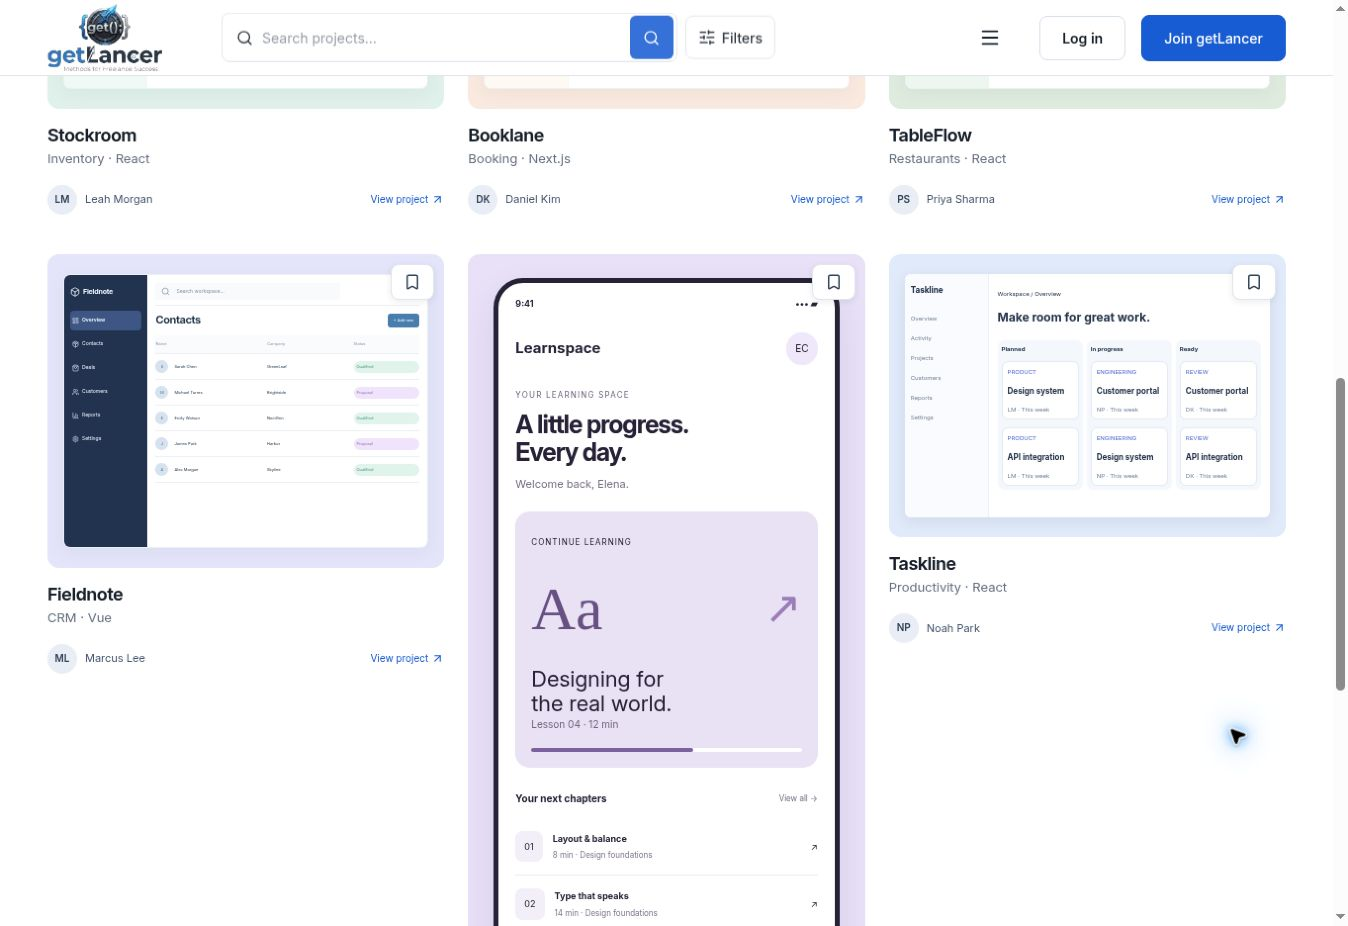
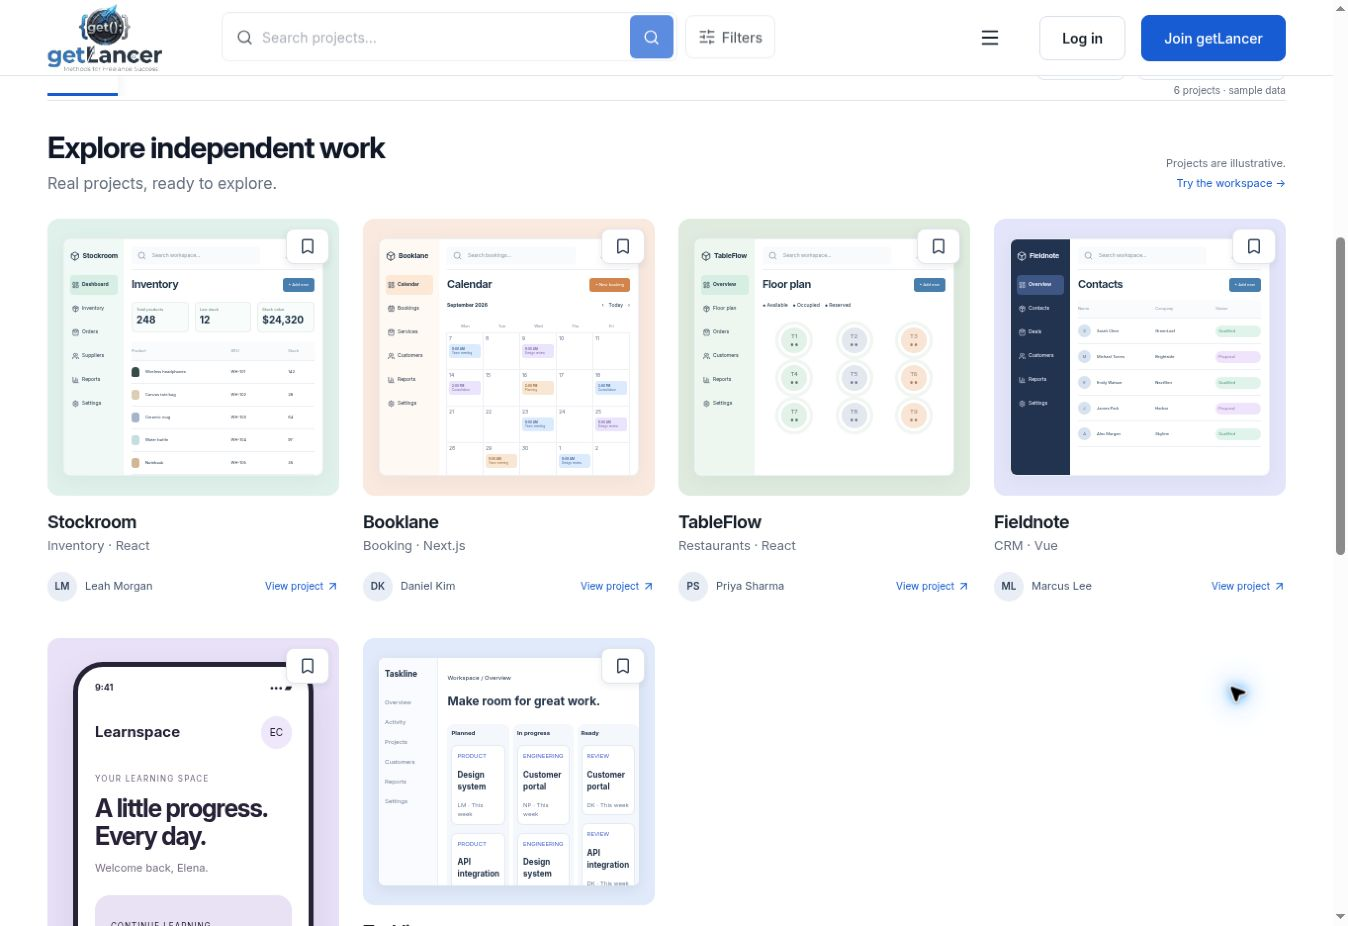
Use four masonry demo columns on desktop

diff --git a/app/globals.css b/app/globals.css
@@ -331,7 +331,7 @@ body{font-family:Inter,system-ui,-apple-system,'Segoe UI',sans-serif;background:
 .marketplace-hero .stack-card:hover,.marketplace-hero .stack-card:focus-within{z-index:1}.marketplace-hero .stack-card-1:hover,.marketplace-hero .stack-card-1:focus-within{z-index:2}
 
 /* Mixed-format masonry: media proportions drive height, never a fixed row. */
-.marketplace>.demo-gallery{display:block;columns:3;column-gap:24px;}
+.marketplace>.demo-gallery{display:block;columns:4;column-gap:24px;}
 .marketplace>.demo-gallery>.project{display:inline-block;vertical-align:top;width:100%;break-inside:avoid;margin:0 0 28px;padding:0;border:0;border-radius:0;background:transparent;box-shadow:none;transform:none;}
 .marketplace>.demo-gallery>.project:hover{transform:none;box-shadow:none;}
 .marketplace .demo-gallery .thumbnail{height:auto;min-height:0;aspect-ratio:auto;padding:20px 16px;display:block;overflow:hidden;}
@@ -347,7 +347,7 @@ body{font-family:Inter,system-ui,-apple-system,'Segoe UI',sans-serif;background:
 @media(max-width:1000px){.marketplace>.demo-gallery{columns:2;column-gap:20px}}
 @media(max-width:640px){.marketplace>.demo-gallery{columns:1}.marketplace .demo-gallery .tone-education{padding:24px 38px}}
 
-.marketplace>.demo-gallery[data-layout=masonry]{display:grid;columns:auto;grid-template-columns:repeat(3,minmax(0,1fr));grid-auto-rows:8px;column-gap:24px;row-gap:0;align-items:start;}
+.marketplace>.demo-gallery[data-layout=masonry]{display:grid;columns:auto;grid-template-columns:repeat(4,minmax(0,1fr));grid-auto-rows:8px;column-gap:24px;row-gap:0;align-items:start;}
 .marketplace>.demo-gallery[data-layout=masonry]>.project{margin:0;}
 @media(min-width:1600px){.marketplace>.demo-gallery[data-layout=masonry]{grid-template-columns:repeat(4,minmax(0,1fr))}}
 @media(max-width:1000px){.marketplace>.demo-gallery[data-layout=masonry]{grid-template-columns:repeat(2,minmax(0,1fr));column-gap:20px}}

diff --git a/DESIGN.md b/DESIGN.md
@@ -19,4 +19,4 @@ Content max 1440px, 48px desktop / 20px mobile gutters. Header 76px, sticky. Her
 Remove the visible hero pause/play UI and perpetual cycling. Two hero cards enter once within 700ms and settle at gentle opposing angles. Reduced-motion disables entrance transforms. Search dock crossfades within the fixed header grid; no animated width or height. Hover transitions 180–240ms. Keyboard reachable controls, proper labels, semantic navigation and no horizontal document overflow. Keep sample-data disclosure and access to the UAT workspace below discovery, outside primary navigation.
 
 ## Gallery update — mixed-format demos
-Reference: https://godly.design/ (observed 28 September 2026). Equal-width masonry columns, variable-height media, compact metadata. Gallery only: existing brand, hero, search and navigation stay unchanged. Three columns at normal desktop widths, four above 1600px, two on tablet and one on mobile. Source screenshots render at their native aspect ratio without cropping; portrait source images remain vertical. Illustrative Learnspace demonstrates a mobile interface. Measured masonry row spans preserve DOM/source order and adapt after images load. CSS columns provide the no-JavaScript fallback. Filtering/sorting retain their existing result order. No third-party demo assets copied.
+Reference: https://godly.design/ (observed 28 September 2026). Equal-width masonry columns, variable-height media, compact metadata. Gallery only: existing brand, hero, search and navigation stay unchanged. Four columns on desktop, two on tablet and one on mobile. Source screenshots render at their native aspect ratio without cropping; portrait source images remain vertical. Illustrative Learnspace demonstrates a mobile interface. Measured masonry row spans preserve DOM/source order and adapt after images load. CSS columns provide the no-JavaScript fallback. Filtering/sorting retain their existing result order. No third-party demo assets copied.

diff --git a/docs/qa/masonry-review.md b/docs/qa/masonry-review.md
@@ -5,7 +5,7 @@ Reference inspected: https://godly.design/ on 2026-09-28. Observed equal-width m
 - TypeScript check: passed.
 - Production build: passed.
 - Frontend regression tests: 27 passed, 0 failed.
-- Desktop browser: six project cards, three columns, portrait Learnspace demo taller than landscape projects, no horizontal overflow.
+- Desktop browser: six project cards, four columns, portrait Learnspace demo taller than landscape projects, no horizontal overflow.
 - Source screenshots use natural height and contain rather than cropped fixed-height covers.
 - ResizeObserver updates masonry spans when card/image dimensions change. No-JavaScript fallback uses CSS columns.
 - Responsive CSS: two columns at <=1000px and one at <=640px; mobile interaction not separately tested.
